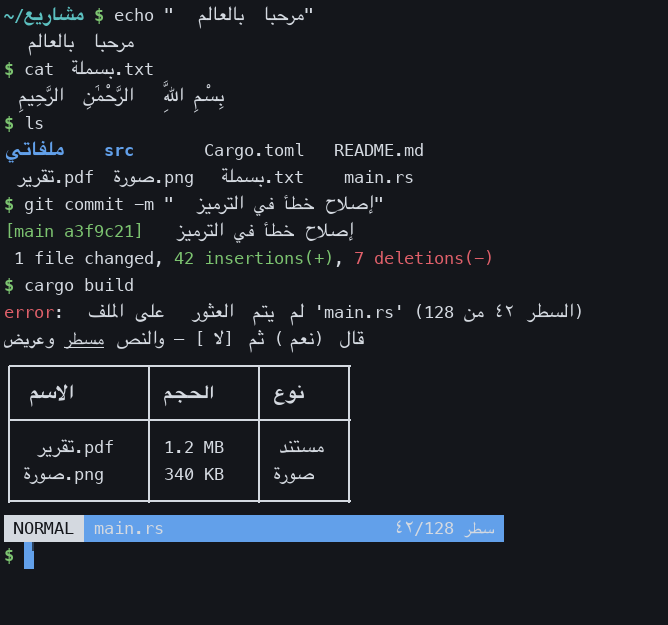
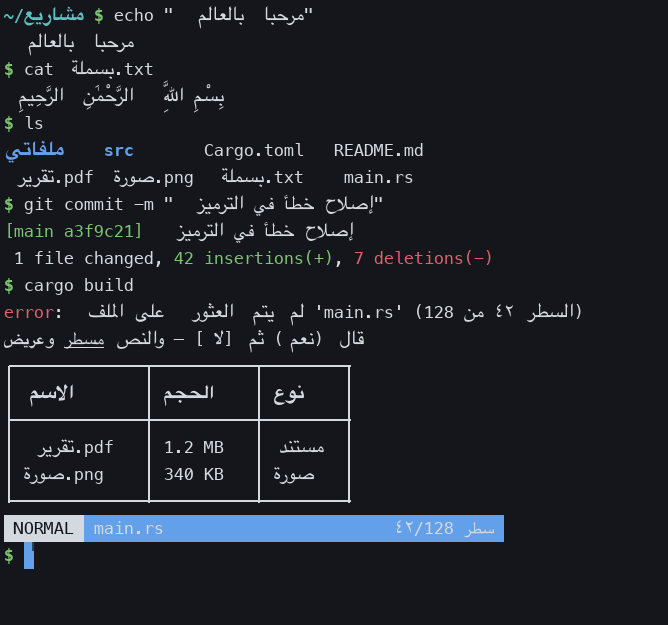
Fix two failures found by running real programs through the terminal
Driving neovim and htop through a PTY and rendering the result surfaced two
bugs that the offline tests did not.

Editors that predate shaping terminals pre-convert Arabic to Arabic
Presentation Forms before writing it out; vim and neovim do this by default via
'arabicshape'. Those codepoints are frozen letter shapes, so handing them to a
real shaper produced disconnected letters — the exact breakage this terminal
exists to avoid, in its flagship use case. Forms that map back to a single base
letter are now restored on input so the shaper can join them; multi-character
ligature forms are left alone, since they are already one correct glyph in one
cell and expanding them would need a cell the writing program never reserved.

Long Latin runs drifted off the cell grid. cell_w is rounded to a whole pixel
while a Menlo advance is 9.64px, so laying a run out with the font's own
advances loses about a third of a pixel per character — nearly a full cell
across an 80-column status bar, which made glyphs collide and swallowed a
character from htop's function-key bar. Non-cursive text is now snapped to its
cell, which is safe precisely because Latin has no joins to protect; Arabic
keeps free placement, since snapping each letter to its own cell is what tears
cursive joins apart.

Adds a tui_probe example that drives a full-screen program through the terminal
and dumps both the grid and a render, regression tests for both fixes, and an
[…]

diff --git a/src/layout.rs b/src/layout.rs
@@ -346,13 +346,15 @@ impl Layouter {
             groups.reverse();
         }
 
+        let cell_w = fonts.cell_w;
+
         // Column span of each group, so it can be anchored independently.
         let mut spans: Vec<(f32, f32)> = Vec::new();
         {
             let mut x = box_x;
             for g in &groups {
                 let w = g.items.iter().map(|&i| self.items[i].columns).sum::<usize>() as f32
-                    * fonts.cell_w;
+                    * cell_w;
                 spans.push((x, w));
                 x += w;
             }
@@ -403,12 +405,61 @@ impl Layouter {
 
             let (span_x, span_w) = spans[gi];
 
-            // If the group's ink is wider than the columns it owns, shrink it
-            // *isotropically* to fit. Squeezing only the x axis would distort
-            // the letterforms and tear the joins; scaling uniformly keeps the
-            // word's shape and just sets it slightly smaller. Letting it
-            // overhang instead is not an option between words — the neighbour's
-            // ink would start before this one ends and swallow the space.
+            // Non-cursive scripts are snapped to the grid, one cluster per
+            // cell. This is not optional: `cell_w` is rounded to a whole pixel
+            // (Menlo advances 9.64px into a 10px cell), so laying a long Latin
+            // run out with the font's own advances drifts about a third of a
+            // pixel per character — nearly a full cell across an 80-column
+            // status bar, which makes characters collide.
+            //
+            // Arabic is exempt because snapping is exactly what tears cursive
+            // joins apart: a word has to be placed as one piece.
+            let cursive = g.slot == Slot::Arabic;
+            if !cursive {
+                let mut i = 0usize;
+                while i < infos.len() {
+                    let cl = infos[i].cluster;
+                    let mut j = i;
+                    let mut adv = 0.0f32;
+                    while j < infos.len() && infos[j].cluster == cl {
+                        adv += poss[j].x_advance as f32 * scale;
+                        j += 1;
+                    }
+                    let item = self.items.get(cl as usize).unwrap_or(&self.items[g.items[0]]);
+                    let cell = &row.cells[item.cell];
+                    let col = out.cell_to_column.get(item.cell).copied().unwrap_or(item.cell);
+                    let cell_span = item.columns as f32 * cell_w;
+                    // Centre the cluster in its cell so the rounding slack is
+                    // split evenly rather than pushed to one side.
+                    let mut pen = col as f32 * cell_w + (cell_span - adv) * 0.5;
+                    for k in i..j {
+                        let inkless = item.ch == ' ' && item.marks.is_empty();
+                        if !inkless && !crate::boxdraw::is_procedural(item.ch) {
+                            out.glyphs.push(PositionedGlyph {
+                                font,
+                                glyph: infos[k].glyph_id as u16,
+                                x: pen + poss[k].x_offset as f32 * scale,
+                                y: poss[k].y_offset as f32 * scale,
+                                px,
+                                fg: cell.fg,
+                                attrs: cell.attrs,
+                                cell: item.cell,
+                            });
+                        }
+                        pen += poss[k].x_advance as f32 * scale;
+                    }
+                    i = j;
+                }
+                self.buf = Some(shaped.clear());
+                continue;
+            }
+
+            // If a cursive group's ink is wider than the columns it owns,
+            // shrink it *isotropically* to fit. Squeezing only the x axis would
+            // distort the letterforms and tear the joins; scaling uniformly
+            // keeps the word's shape and just sets it slightly smaller. Letting
+            // it overhang is not an option between words — the neighbour's ink
+            // would start before this one ends and swallow the space.
             let (scale, px, natural) = if natural > span_w && natural > 0.0 {
                 let k = span_w / natural;
                 (scale * k, px * k, span_w)

diff --git a/examples/tui_probe.rs b/examples/tui_probe.rs
@@ -1,0 +1,66 @@
+//! Drive a real full-screen program in a PTY and render what it produces.
+use arabic_term::color::Palette;
+use arabic_term::font::Fonts;
+use arabic_term::pty::{Pty, PtyEvent};
+use arabic_term::render::{Canvas, Renderer};
+use arabic_term::term::{Terminal, Vt};
+use std::time::{Duration, Instant};
+
+fn main() -> anyhow::Result<()> {
+    let args: Vec<String> = std::env::args().skip(1).collect();
+    let prog = args.first().cloned().unwrap_or("/bin/sh".into());
+    let script = args.get(1).cloned().unwrap_or_default();
+    let settle_ms: u64 = args.get(2).and_then(|s| s.parse().ok()).unwrap_or(2500);
+    let out = std::env::var("OUT").unwrap_or("/tmp/tui.ppm".into());
+
+    let (rows, cols) = (24usize, 80usize);
+    let mut fonts = Fonts::new(16.0, None)?;
+    let mut term = Terminal::new(rows, cols, 500);
+    let mut vt = Vt::new();
+    let mut pty = Pty::spawn(Some(&prog), rows as u16, cols as u16, 8, 16, || {})?;
+
+    // Send the driving keystrokes, letting the program settle between them.
+    for chunk in script.split("<<PAUSE>>") {
+        if !chunk.is_empty() {
+            pty.write(chunk.as_bytes());
+        }
+        let deadline = Instant::now() + Duration::from_millis(settle_ms);
+        while Instant::now() < deadline {
+            match pty.rx.recv_timeout(Duration::from_millis(120)) {
+                Ok(PtyEvent::Output(b)) => vt.feed(&mut term, &b),
+                Ok(PtyEvent::Exited) => break,
+                Err(_) => {}
+            }
+        }
+    }
+    pty.kill();
+
+    println!("alt_screen={} title={:?} cursor=({},{}) visible={}", term.grid.in_alt(), term.title,
+        term.grid.screen.cursor.row, term.grid.screen.cursor.col,
+        term.modes.contains(arabic_term::term::Modes::CURSOR_VISIBLE));
+    for r in 0..rows {
+        let line: String = term.grid.screen.rows[r]
+            .cells
+            .iter()
+            .filter(|c| !c.attrs.contains(arabic_term::grid::Attrs::WIDE_SPACER))
+            .map(|c| c.ch)
+            .collect();
+        println!("{:2}|{}|", r, line.trim_end());
+    }
+
+    let mut renderer = Renderer::new();
+    let w = (cols as f32 * fonts.cell_w) as usize + 8;
+    let h = (rows as f32 * fonts.cell_h) as usize + 4;
+    let mut buf = vec![0u32; w * h];
+    let mut canvas = Canvas { buf: &mut buf, width: w, height: h };
+    renderer.draw(&mut canvas, &term, &mut fonts, &Palette::dark(), None, true);
+    let mut ppm = format!("P6\n{w} {h}\n255\n").into_bytes();
+    for px in buf.iter() {
+        ppm.push((px >> 16) as u8);
+        ppm.push((px >> 8) as u8);
+        ppm.push(*px as u8);
+    }
+    std::fs::write(&out, ppm)?;
+    println!("wrote {out} {w}x{h}");
+    Ok(())
+}

diff --git a/src/term.rs b/src/term.rs
@@ -340,6 +340,42 @@ fn parse_color_semicolon<'a>(iter: &mut vte::ParamsIter<'a>) -> Option<Color> {
     }
 }
 
+/// Undo pre-shaped Arabic.
+///
+/// Editors that predate shaping terminals — vim and neovim do this by default,
+/// via `'arabicshape'` — convert Arabic to Arabic Presentation Forms before
+/// writing it out, because they assume the terminal cannot join letters itself.
+/// Those codepoints are frozen isolated/initial/medial/final shapes, so feeding
+/// them to a real shaper produces disconnected letters: exactly the breakage
+/// this terminal exists to avoid.
+///
+/// Mapping each one back to its base letter lets the shaper do the joining
+/// properly, and makes copied text ordinary Arabic rather than presentation
+/// forms, which Unicode discourages for interchange.
+///
+/// Forms that decompose to *several* characters are ligatures — lam-alef and
+/// friends. Those are left alone: they are already a single correct glyph
+/// sitting in a single cell, and expanding them would need more cells than the
+/// program reserved.
+#[inline]
+fn unshape_presentation_form(c: char) -> char {
+    if !matches!(c as u32, 0xFB50..=0xFDFF | 0xFE70..=0xFEFF) {
+        return c;
+    }
+    let mut out = None;
+    let mut count = 0usize;
+    unicode_normalization::char::decompose_compatible(c, |d| {
+        count += 1;
+        if count == 1 {
+            out = Some(d);
+        }
+    });
+    match out {
+        Some(base) if count == 1 => base,
+        _ => c,
+    }
+}
+
 /// Map ASCII to the DEC special graphics set (box drawing) when ESC ( 0 is active.
 fn dec_graphic(c: char) -> char {
     match c {
@@ -358,6 +394,7 @@ impl Perform for Terminal {
     fn print(&mut self, c: char) {
         self.damaged = true;
         let c = if self.dec_graphics { dec_graphic(c) } else { c };
+        let c = unshape_presentation_form(c);
         let width = c.width().unwrap_or(0);
 
         // Zero-width: a combining mark belongs to the cell already written.

diff --git a/tests/arabic.rs b/tests/arabic.rs
@@ -205,3 +205,41 @@ fn glyphs_stay_within_the_row_bounds() {
         assert!(g.x <= width, "glyph starts past the row end: {} > {width}", g.x);
     }
 }
+
+#[test]
+fn long_latin_runs_stay_on_the_cell_grid() {
+    // `cell_w` is rounded to a whole pixel, so laying a long run out with the
+    // font's own advances drifts a fraction of a pixel per character. Across an
+    // 80-column status bar that accumulates to a whole cell and characters
+    // collide, so non-cursive text is snapped to its cell.
+    let cols = 80;
+    let text = "F1Help  F2Setup F3SearchF4FilterF5Tree  F6SortByF7Nice -F8Nice +F9Kill  F10Quit";
+    let (l, _t) = layout(text, cols, BidiMode::ForceLtr);
+    let fonts = Fonts::new(16.0, None).unwrap();
+    assert!(!l.glyphs.is_empty());
+    for g in &l.glyphs {
+        let want = l.column_of(g.cell) as f32 * fonts.cell_w;
+        assert!(
+            (g.x - want).abs() <= fonts.cell_w * 0.5,
+            "glyph for cell {} drifted off its column: x={:.2} want~{:.2}",
+            g.cell,
+            g.x,
+            want
+        );
+    }
+}
+
+#[test]
+fn arabic_is_not_snapped_so_letters_can_join() {
+    // The converse of the rule above: snapping each Arabic letter to its own
+    // cell is what tears cursive joins apart, so a word is placed as one piece
+    // and its glyphs sit closer together than the cell pitch.
+    let cols = 24;
+    let (l, _t) = layout("بالعالم", cols, BidiMode::ForceLtr);
+    let fonts = Fonts::new(16.0, None).unwrap();
+    let mut xs: Vec<f32> = l.glyphs.iter().map(|g| g.x).collect();
+    xs.sort_by(|a, b| a.partial_cmp(b).unwrap());
+    assert!(xs.len() >= 4, "expected several glyphs, got {}", xs.len());
+    let tight = xs.windows(2).any(|w| w[1] - w[0] < fonts.cell_w * 0.9);
+    assert!(tight, "Arabic glyphs are on the cell pitch; joins would be broken");
+}

diff --git a/tests/pty_session.rs b/tests/pty_session.rs
@@ -97,3 +97,40 @@ fn resize_is_reported_to_the_child() {
     assert!(ok, "child never saw the new size; screen was:\n{}", screen(&term));
     pty.kill();
 }
+
+/// Editors that predate shaping terminals write Arabic out as presentation
+/// forms. Check a real editor's output arrives as ordinary Arabic letters, so
+/// the shaper has something it can actually join.
+#[test]
+fn editor_pre_shaped_arabic_arrives_as_base_letters() {
+    let Some(nvim) = ["/opt/homebrew/bin/nvim", "/usr/local/bin/nvim", "/usr/bin/vim"]
+        .into_iter()
+        .find(|p| std::path::Path::new(p).exists())
+    else {
+        eprintln!("no vim/nvim available; skipping");
+        return;
+    };
+
+    let dir = std::env::temp_dir().join("arabic-term-test");
+    std::fs::create_dir_all(&dir).unwrap();
+    let file = dir.join("ar.txt");
+    std::fs::write(&file, "مرحبا بالعالم\n").unwrap();
+
+    let mut term = Terminal::new(24, 80, 100);
+    let mut vt = Vt::new();
+    let mut pty = Pty::spawn(Some("/bin/sh"), 24, 80, 8, 16, || {}).expect("spawn pty");
+    pty.write(format!("{nvim} -u NONE {}\n", file.display()).as_bytes());
+
+    let ok = pump_until(&pty, &mut term, &mut vt, Duration::from_secs(20), |t| {
+        t.grid.in_alt() && screen(t).contains("مرحبا")
+    });
+    pty.write(b"\x1b:q!\n");
+    pty.kill();
+
+    assert!(ok, "editor output never arrived as base letters; screen was:\n{}", screen(&term));
+    // And explicitly: no Arabic Presentation Forms survived into the grid.
+    let has_forms = screen(&term)
+        .chars()
+        .any(|c| matches!(c as u32, 0xFB50..=0xFDFF | 0xFE70..=0xFEFF));
+    assert!(!has_forms, "presentation forms reached the grid:\n{}", screen(&term));
+}

diff --git a/tests/terminal.rs b/tests/terminal.rs
@@ -180,3 +180,23 @@ fn resize_preserves_content_and_pulls_from_scrollback() {
     assert_eq!(line(&t, 0), "one", "growing pulls the retired line back");
     assert_eq!(line(&t, 2), "three");
 }
+
+#[test]
+fn pre_shaped_arabic_is_restored_to_base_letters() {
+    // vim/neovim pre-shape Arabic into presentation forms by default. Storing
+    // those verbatim leaves the shaper nothing to join, so they are mapped back.
+    // U+FEE9 HEH ISOLATED, U+FEDF LAM INITIAL, U+FE8E ALEF FINAL.
+    let t = run(2, 20, "\u{FEDF}\u{FE8E}\u{FEE9}");
+    assert_eq!(line(&t, 0), "لاه");
+    assert_eq!(t.grid.screen.cursor.col, 3, "still one cell per letter");
+}
+
+#[test]
+fn presentation_form_ligatures_are_left_intact() {
+    // U+FEFB LAM WITH ALEF ISOLATED decomposes to two characters. Expanding it
+    // would need a cell the writing program never reserved, so it stays as the
+    // single glyph it already is.
+    let t = run(2, 20, "\u{FEFB}");
+    assert_eq!(line(&t, 0), "\u{FEFB}");
+    assert_eq!(t.grid.screen.cursor.col, 1);
+}

diff --git a/README.md b/README.md
@@ -39,8 +39,20 @@ true, and copying text gives back what the program actually emitted.
    cell boundaries, لا becomes one ligature, and diacritics get their proper
    GPOS anchors. Runs are split by font, **never by colour** — a colour change
    in the middle of a word must not break the joining.
-5. **Place.** Glyphs are laid out with the font's own advances inside the
-   columns their word occupies, anchored at the word's leading edge.
+5. **Place.** Cursive Arabic is placed as one piece, with the font's own
+   advances, inside the columns its word occupies. Everything else is snapped
+   to its cell — `cell_w` is a whole number of pixels but a glyph advance is
+   not, so a long Latin run laid out by advances drifts about a third of a pixel
+   per character and collides within one status bar's width. Snapping is safe
+   there precisely because Latin has no joins to protect.
+
+**Pre-shaped Arabic is undone on the way in.** Editors that predate shaping
+terminals convert Arabic to Arabic Presentation Forms before writing it out —
+vim and neovim do this by default, via `'arabicshape'`. Those codepoints are
+frozen letter shapes, so passing them to a real shaper yields disconnected
+letters. Each one that maps back to a single base letter is restored, letting
+the shaper join properly; multi-character ligature forms are left alone, since
+they are already one correct glyph in one cell.
 
 ### Two decisions worth explaining
 
@@ -118,9 +130,14 @@ propagated to the child via `TIOCSWINSZ`.
 cargo test
 ```
 
-34 tests: VT/grid behaviour, the Arabic layout itself (reordering, ligatures,
-diacritics, mirroring, column pinning), and an end-to-end test that runs a real
-shell on a PTY and checks its output — including Arabic — reaches the grid.
+39 tests: VT/grid behaviour, the Arabic layout itself (reordering, ligatures,
+diacritics, mirroring, column pinning, cell-grid alignment), and end-to-end
+tests that run a real shell — and a real editor — on a PTY and check the output
+reaches the grid correctly.
+
+`cargo run --release --example tui_probe -- /bin/sh "htop\n<<PAUSE>>"` drives a
+full-screen program through the terminal and dumps both the grid and a render,
+which is how the editor and htop cases above were verified.
 
 `cargo run --release --example render_test` renders a showcase screen to a file
 without opening a window, which is handy for eyeballing layout changes.
